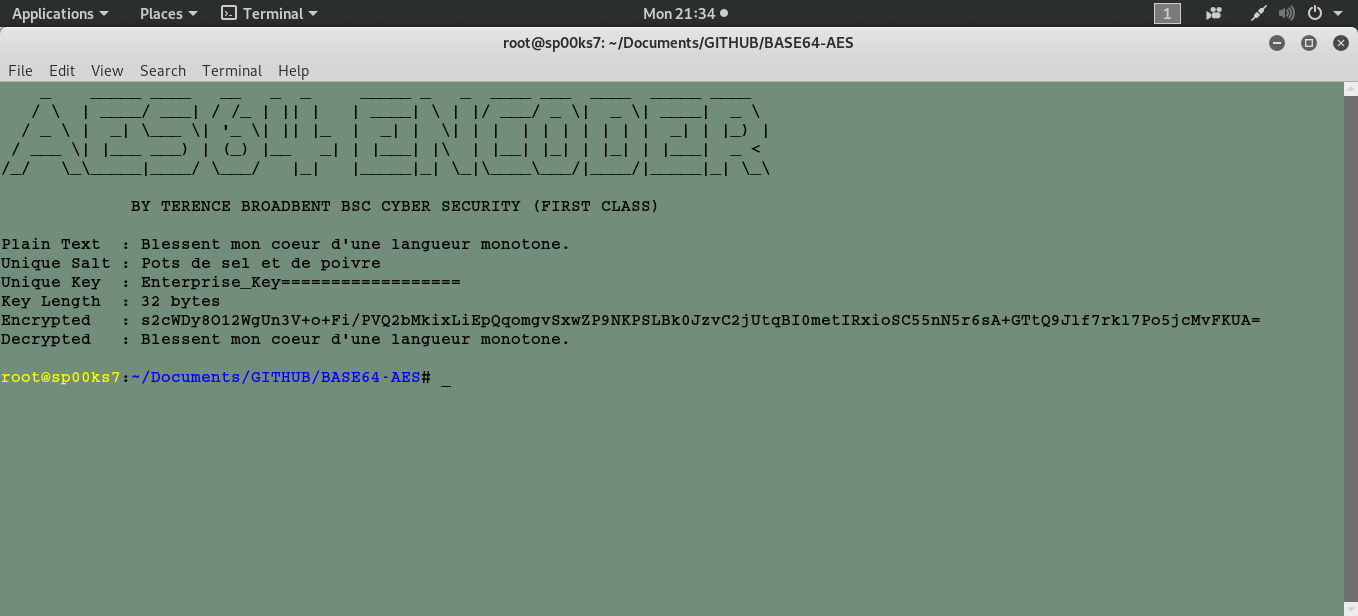
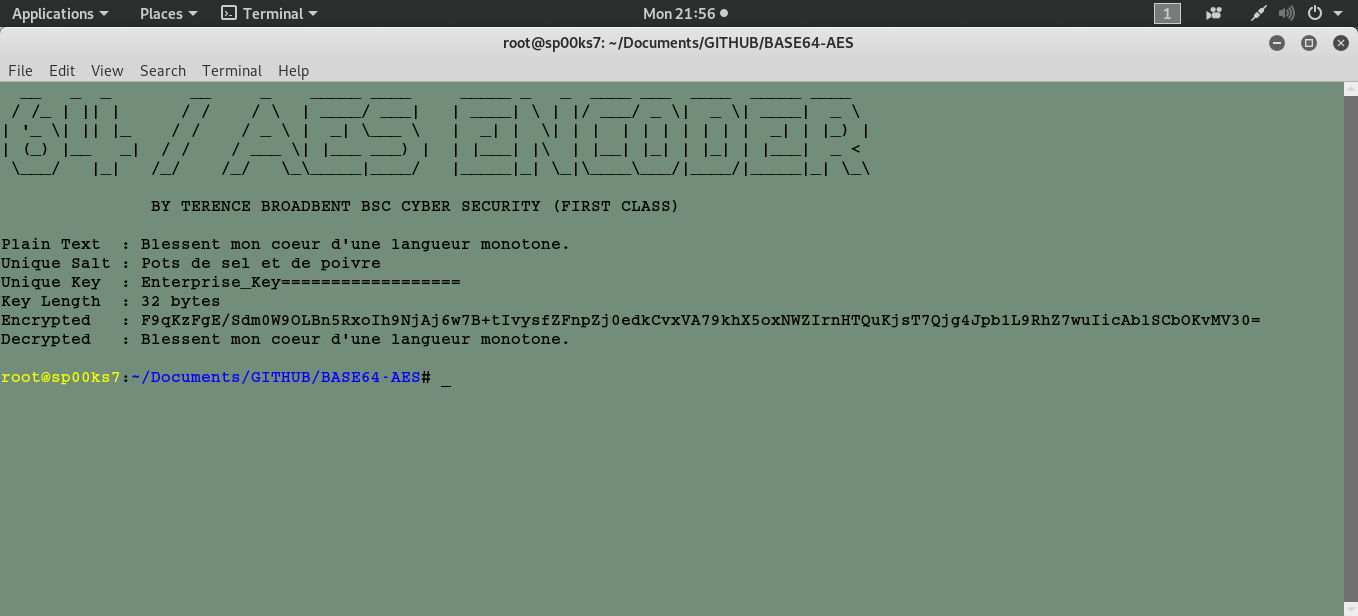
changes

diff --git a/base64_aes.py b/base64_aes.py
@@ -29,13 +29,13 @@ from Crypto.Cipher import AES
 # -------------------------------------------------------------------------------------
 
 os.system("clear")
-print "    _    _____ ____   __   _  _     _____ _   _  ____ ___  ____  _____ ____   " 
-print "   / \  | ____/ ___| / /_ | || |   | ____| \ | |/ ___/ _ \|  _ \| ____|  _ \  "
-print "  / _ \ |  _| \___ \| '_ \| || |_  |  _| |  \| | |  | | | | | | |  _| | |_) | "
-print " / ___ \| |___ ___) | (_) |__   _| | |___| |\  | |__| |_| | |_| | |___|  _ <  "
-print "/_/   \_\_____|____/ \___/   |_|   |_____|_| \_|\____\___/|____/|_____|_| \_\ "
-print "                                                                              "
-print "             BY TERENCE BROADBENT BSC CYBER SECURITY (FIRST CLASS)          \n"
+print "  __   _  _        __     _    _____ ____     _____ _   _  ____ ___  ____  _____ ____   "
+print " / /_ | || |      / /    / \  | ____/ ___|   | ____| \ | |/ ___/ _ \|  _ \| ____|  _ \  "
+print "| '_ \| || |_    / /    / _ \ |  _| \___ \   |  _| |  \| | |  | | | | | | |  _| | |_) | "
+print "| (_) |__   _|  / /    / ___ \| |___ ___) |  | |___| |\  | |__| |_| | |_| | |___|  _ <  "
+print " \___/   |_|   /_/    /_/   \_\_____|____/   |_____|_| \_|\____\___/|____/|_____|_| \_\ "
+print "                                                                                        " 
+print "               BY TERENCE BROADBENT BSC CYBER SECURITY (FIRST CLASS)                  \n"
 
 # ------------------------------------------------------------------------------------- 
 # AUTHOR  : Terence Broadbent                                                    

diff --git a/README.md b/README.md
@@ -5,7 +5,7 @@ Usage: python base64_aes.py
 
 | LANGUAGE | FILENAME      | MD5 HASH                         |
 |------    |------         | -------                          |
-| python   | base64_aes.py | 0fb974dfb5de13291ea4cd576f72b485 |
+| python   | base64_aes.py | 5204058f2118623722e7ebde85a7f18f |
 
 ## CONSOLE DISPLAY
 ![Screenshot](picture1.png)
